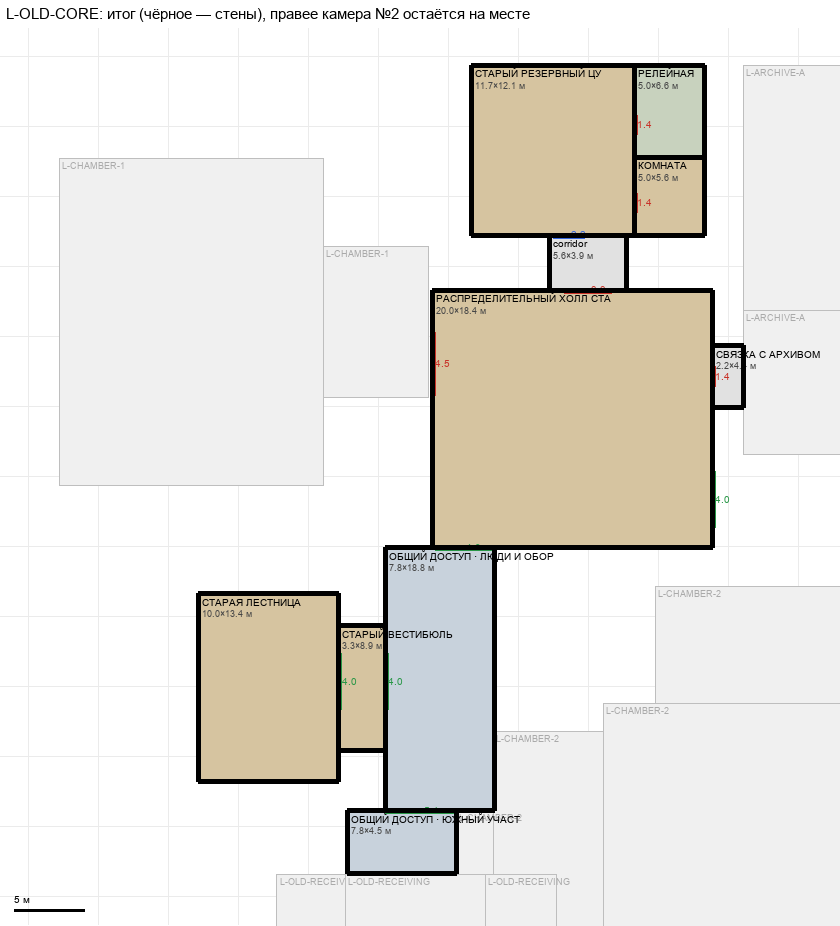
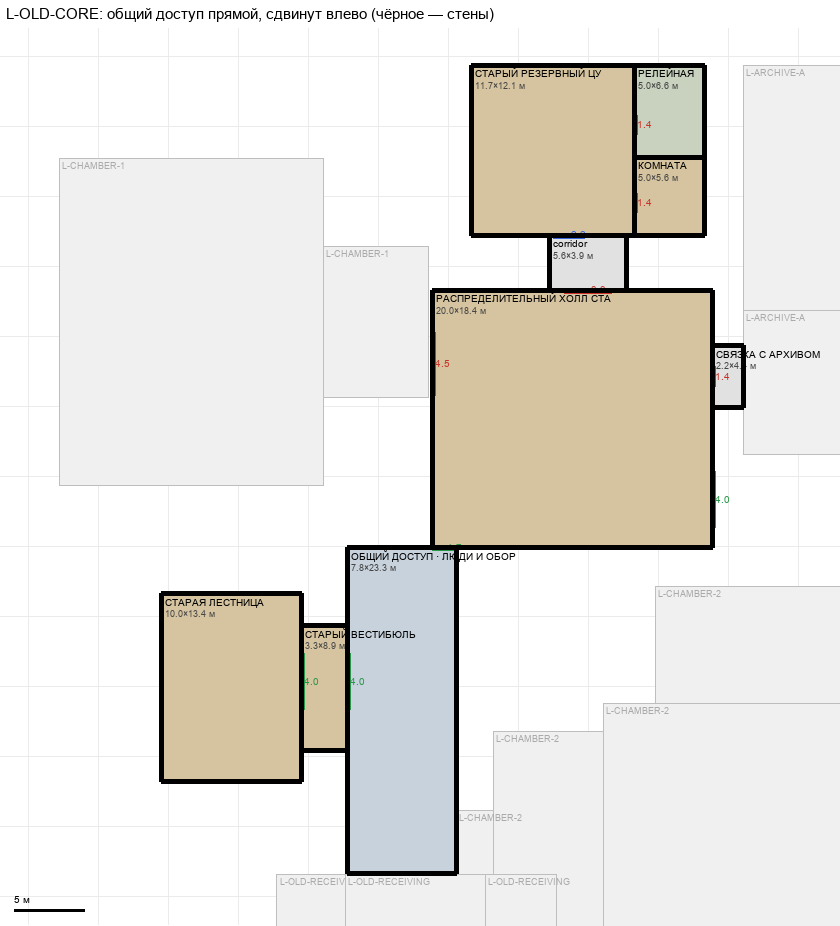
T53 L-OLD-CORE: straight common access shifted left (#95)

Changed region(s): [[0.1857, 0.5745, 0.65, 0.9071], [0.1238, 0.0, 0.619, 0.0302]]

diff --git a/docs/design/complex_v4/review/decisions.md b/docs/design/complex_v4/review/decisions.md
@@ -23,4 +23,4 @@
 | D-18 | U-SECURITY | Принято: связь и КПП вплотную к блоку, два ворота 1,8 на КПП (поперечные стены), окно дежурной на КПП 5 м, двери блока 1,8 / 1,0, вход в тамбур 1,8 | D-18a..m |
 | D-19 | U-FREIGHT / L-FREIGHT-SERVICE | Ворота тракта 4,5×4,5 м в пределах помещений (изолятор тоже), дверь обход шахты ↔ пешеходная полоса, защитный коридор слева (вариант A) с дверью в магистраль, проём шахты лифта; G-02 вариант A: нижний грузовой блок +5,6 м к югу под верхний | D-19a..l, offset_m |
 | D-20 | U-SECURITY | Связь безопасности продлена до главного коридора (север) и до тяжёлой магистрали (юг) | D-18a, D-18c |
-| D-21 | L-OLD-CORE / L-ARCHIVE-A | Принято: общий доступ (двумя участками, чтобы не задеть служебный подход камеры №2), вестибюль и старая лестница 10×13,4 м сдвинуты влево от камеры №2, связка с архивом 2,2×4,4 с дверями historic 1,4 на z 12,2…13,6, ворота в камеру №1 4,5, проходы 4,0, двери ЦУ 1,4. Положение лестницы на T решается позже (вариант C) | D-21a..n |
+| D-21 | L-OLD-CORE / L-ARCHIVE-A | Принято: общий доступ одним прямым участком x -87,2…-79,4 (не задевает подход камеры №2), связь с холлом 1,7 м, вестибюль и старая лестница 10×13,4 м сдвинуты влево от камеры №2, связка с архивом 2,2×4,4 с дверями historic 1,4 на z 12,2…13,6, ворота в камеру №1 4,5, проходы 4,0, двери ЦУ 1,4. Положение лестницы на T решается позже (вариант C) | D-21a..n |
